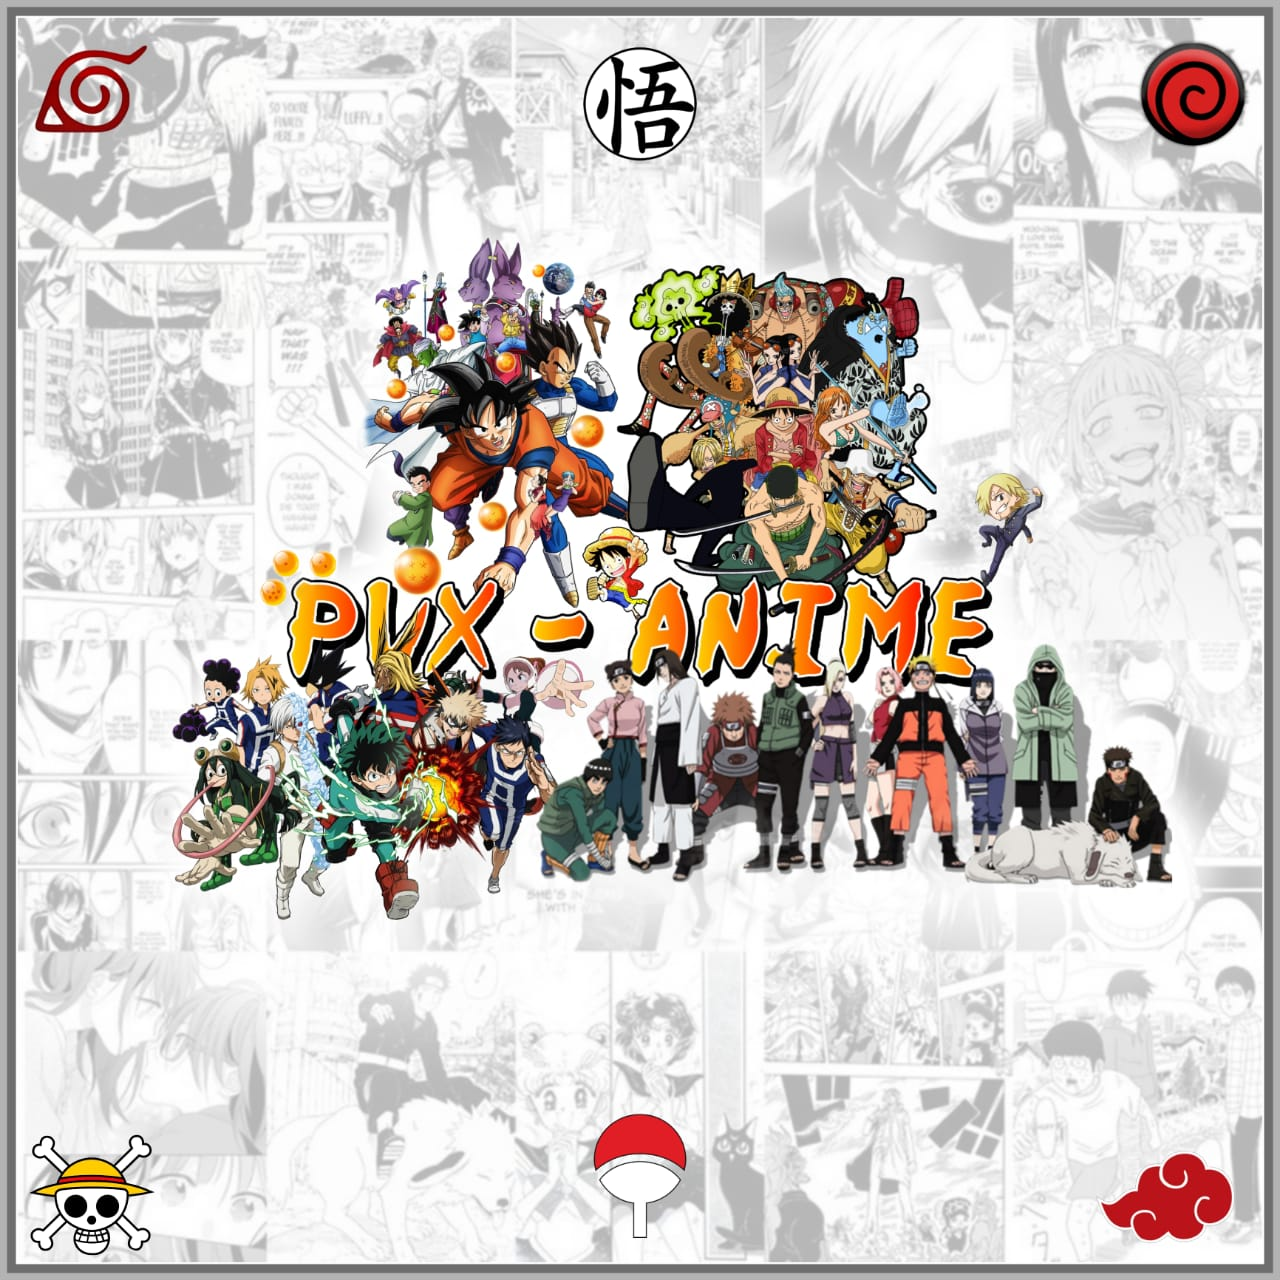
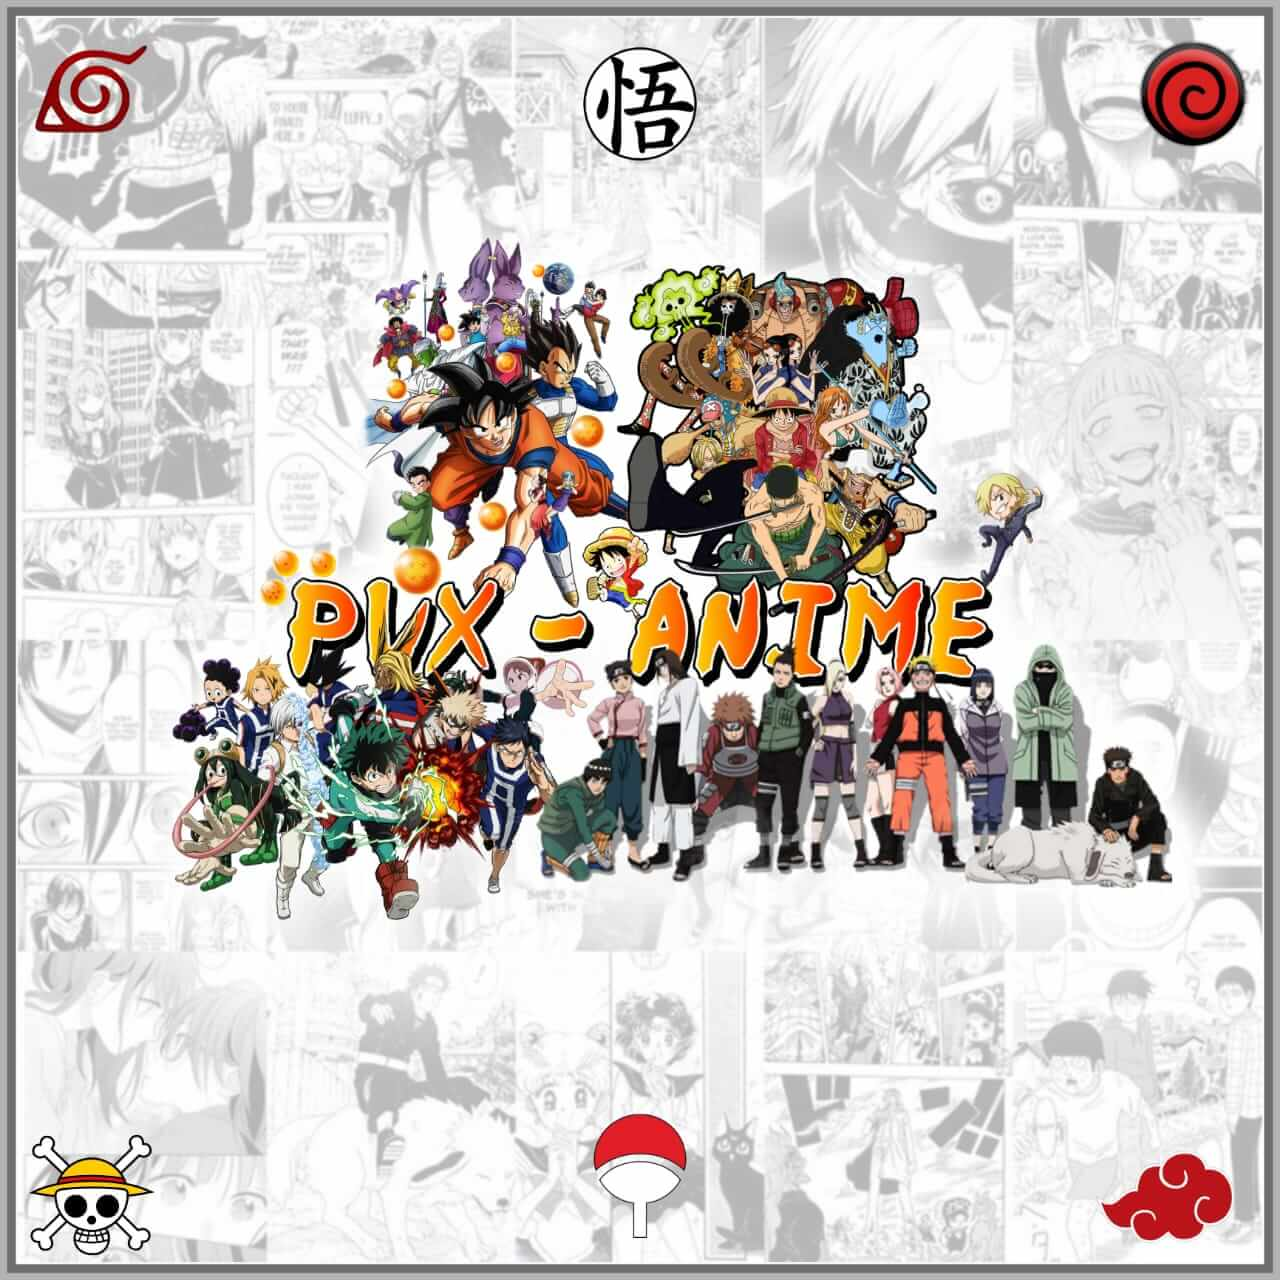
add tech and anime dp

diff --git a/components/home/groups/GroupStateProvider.jsx b/components/home/groups/GroupStateProvider.jsx
@@ -8,7 +8,7 @@ const memeImg = "/static/group/meme.jpg";
 const sticker1Img = "/static/group/sticker1.jpg";
 const sticker2Img = "/static/group/sticker2.jpg";
 const sticker3Img = "/static/group/sticker3.jpg";
-const animeImg = "/static/group/anime.jpg";
+const animeImg = "/static/group/anime2.jpg";
 const botImg = "/static/group/bot.jpg";
 // const haveliImg = "/static/group/haveli.jpg";
 const gamingImg = "/static/group/gaming.jpg";
